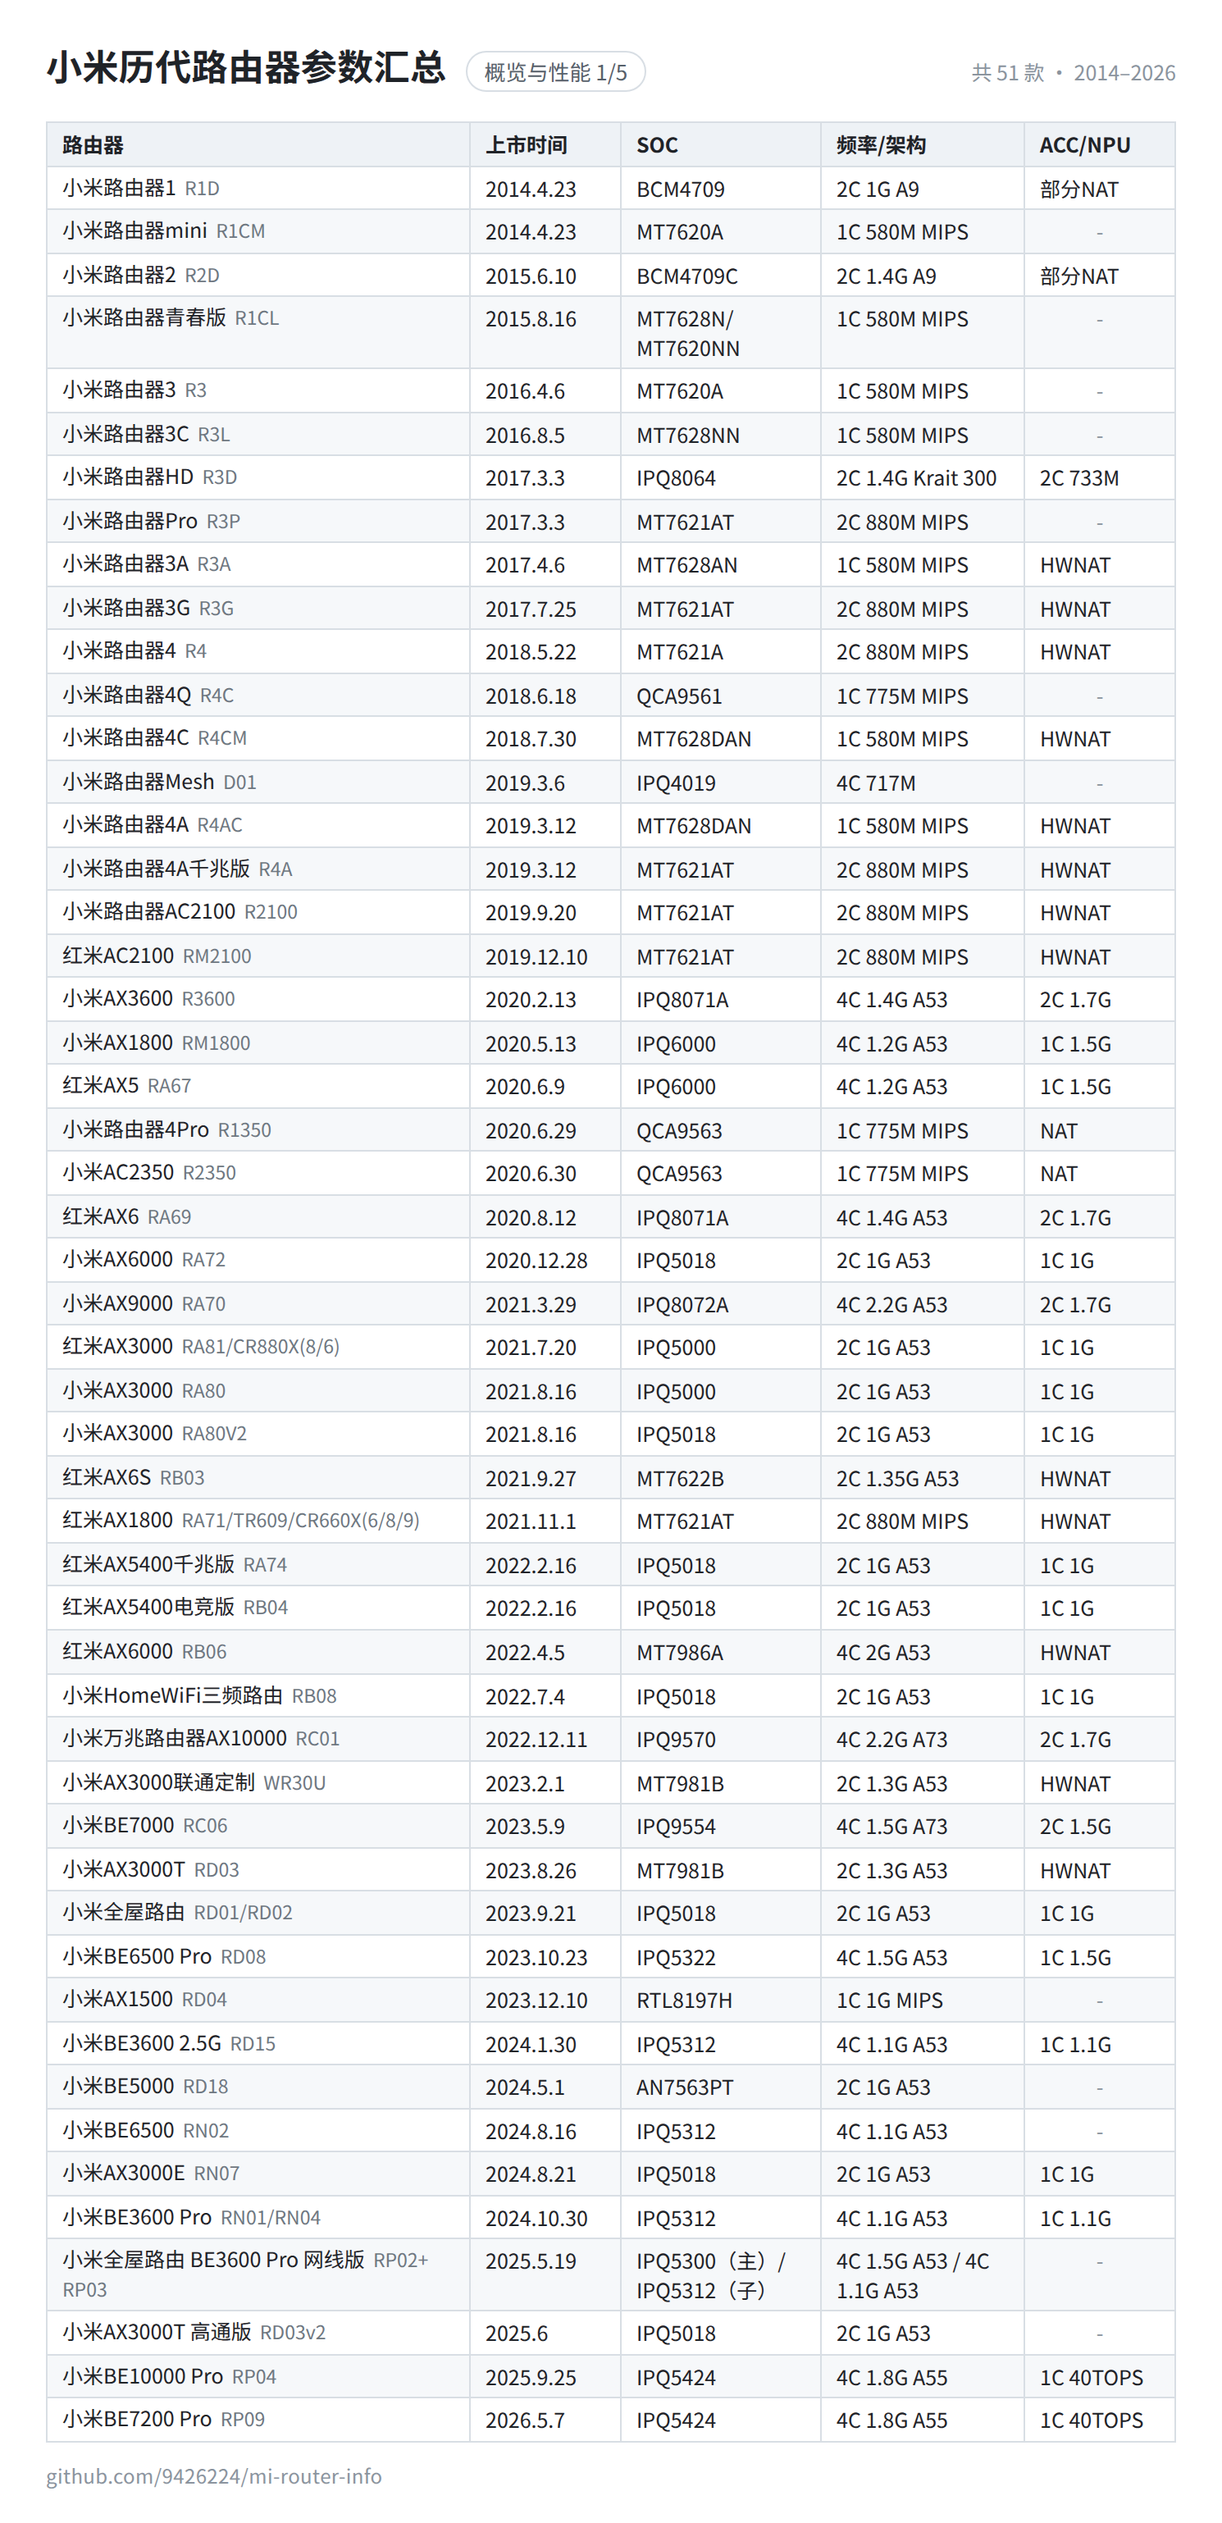
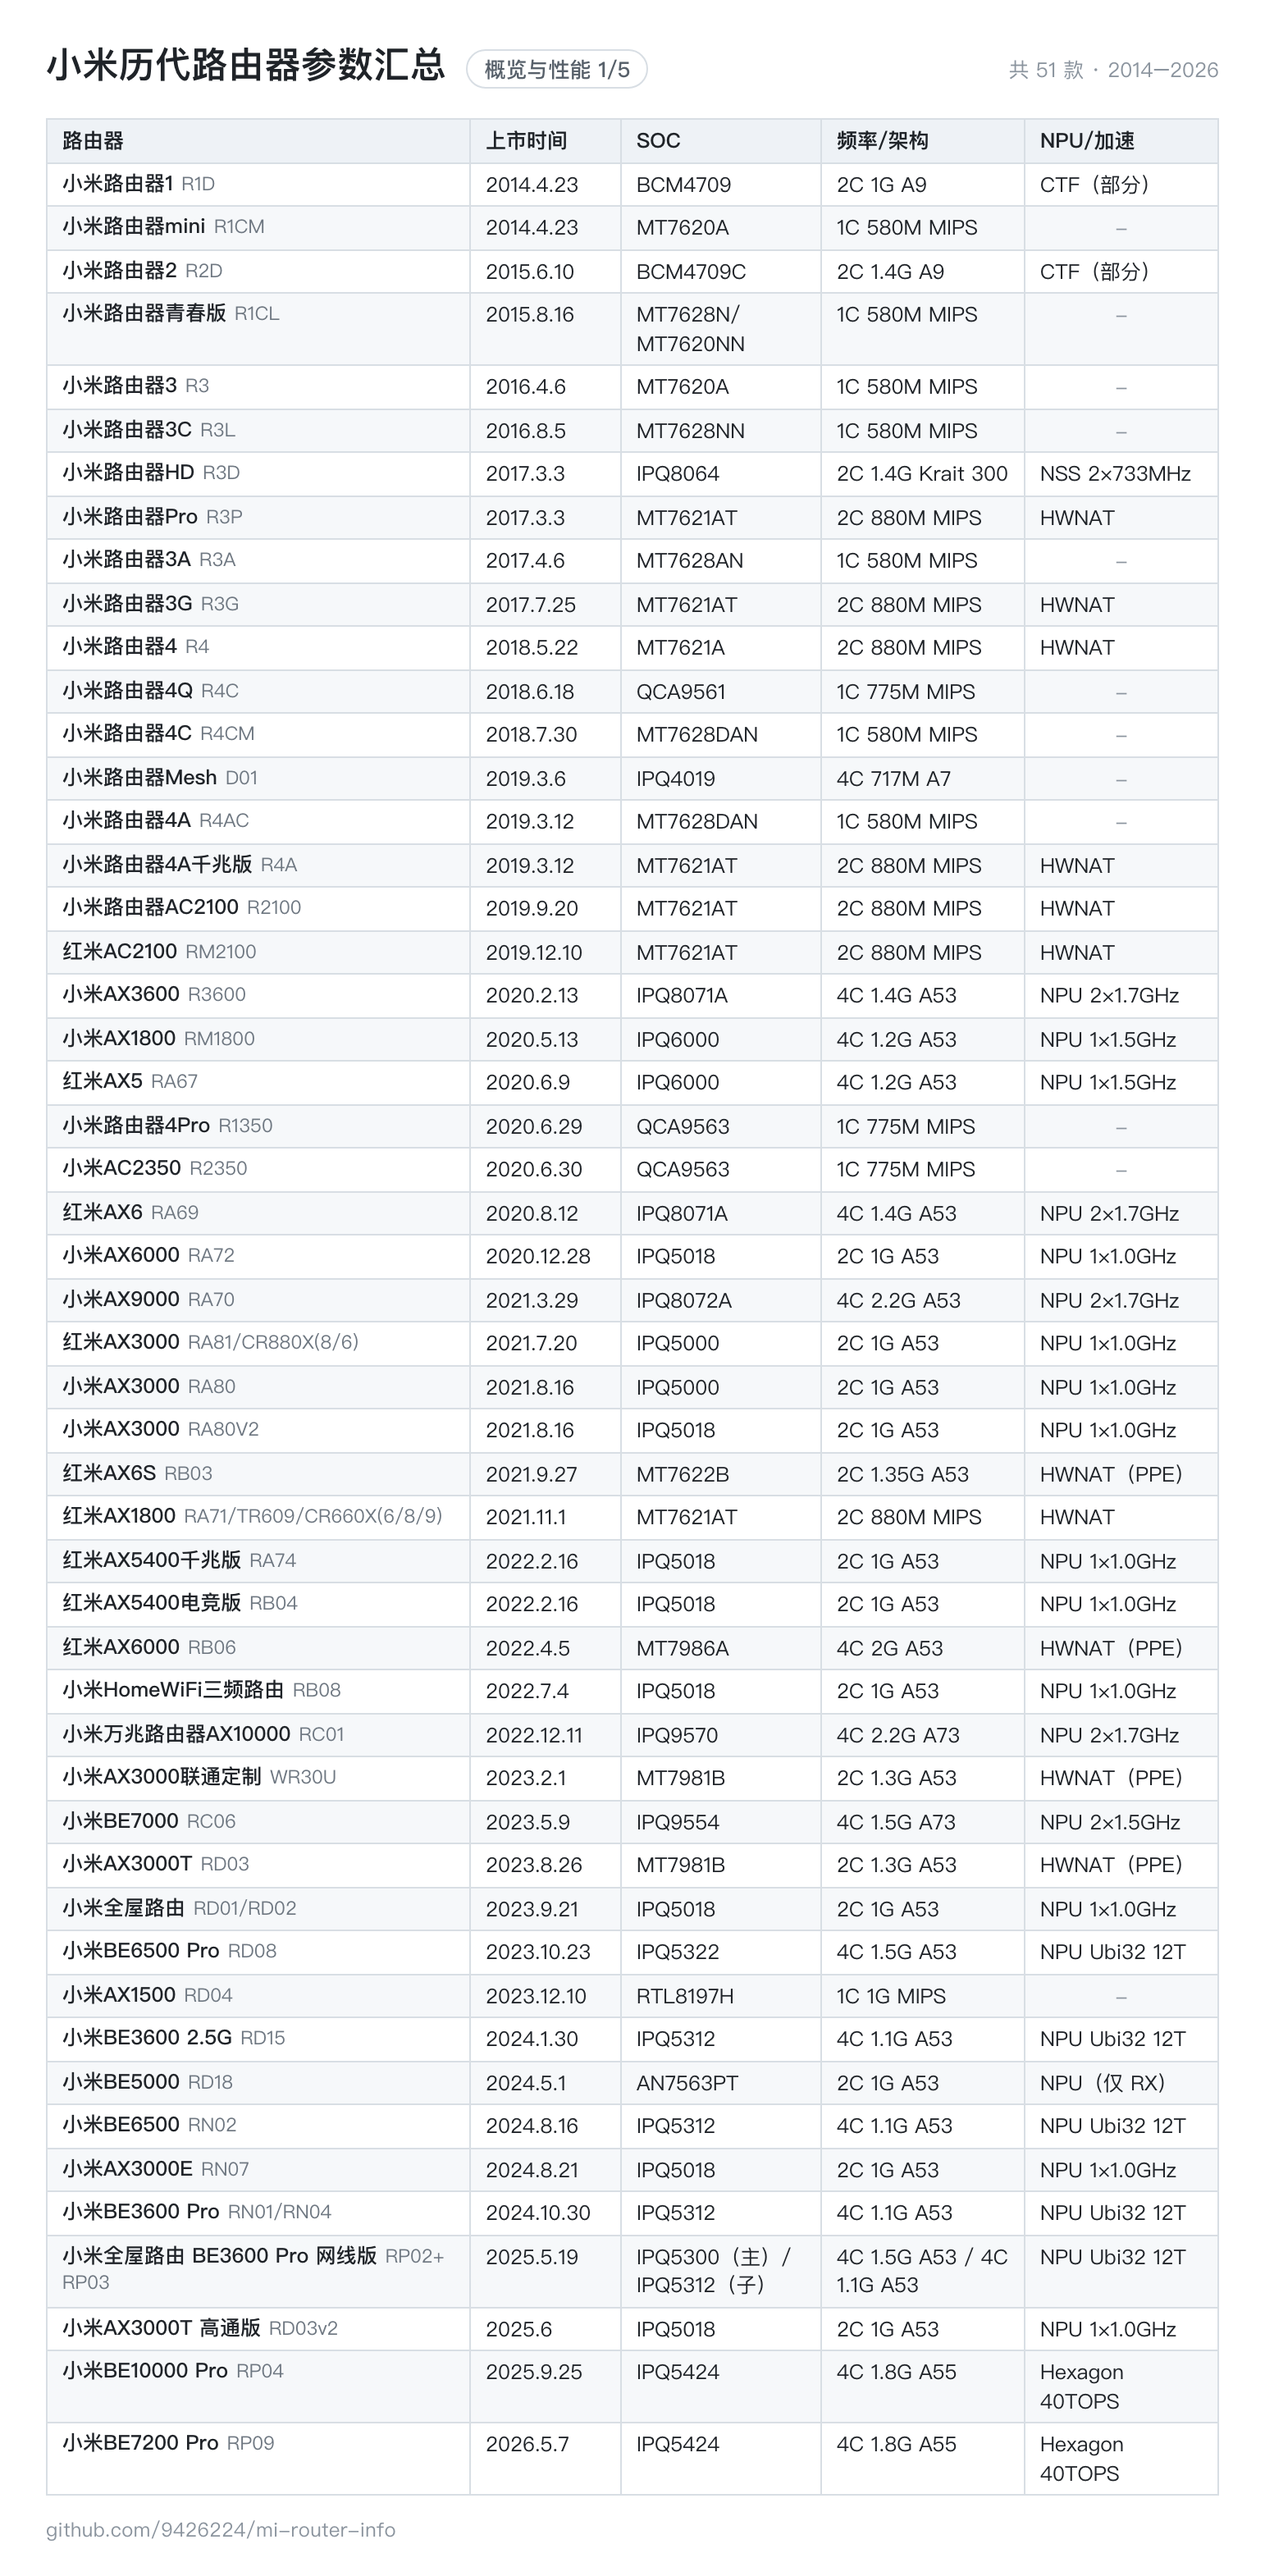
feat: 全表复核并新增一图流 (v0.4.0)
- NPU/加速列按 SoC 重写：IPQ807x/AX 系列 NPU 核心与频率、IPQ8064 的 NSS 2×733MHz、IPQ5312/5322 的 Ubi32 12T、IPQ5424 的 Hexagon 40TOPS；MT798x 标 PPE，博通标 CTF
- 修正误标：MT7628 全系无硬件 NAT、QCA9563 无 HWNAT、MT7621 补 HWNAT、BE5000 的 AN7563 为 RX offload
- 修正 AX9000 的 5G FEM 数量（8× QPF4588）、小米万兆网口（2.5G×4 + 10G×1 + SFP+）、R3D 的 5G FEM 型号（SKY2185712）、IPQ4019 架构（A7）
- 列名更新为「NPU/加速」「交换/PHY」，并允许内存列换行
- 新增一图流 assets/specs-all.png（全部 20 列，1.5× 渲染），README 置顶；拆分图保留
- 对照 acwifi 配置表复核 26 个型号的 CPU/内存/闪存/FEM，补充 SOC 与加速器来源

diff --git a/README.md b/README.md
@@ -15,9 +15,13 @@
 
 ## 图片版
 
-按用途分成五张，每张以「名称 + 型号」作为索引列，方便对照；点击图片查看原图。
+一图流是包含全部 20 列的单张总表，适合下载后放大查看；其余五张按用途拆分，每张以「名称 + 型号」作为索引列。点击图片可查看原图。
 
 <!-- IMAGES:START -->
+
+### 全部参数（一图流）
+
+![小米历代路由器全部参数（一图流）](assets/specs-all.png)
 
 ### 概览与性能
 
@@ -42,23 +46,24 @@
 
 ## 字段说明
 
-| 字段                             | 说明                                        |
-| -------------------------------- | ------------------------------------------- |
-| 路由器名称 / 型号                | 商品名 / 背板或认证型号，多型号用 `/` 分隔  |
-| 上市时间                         | 开售或众筹日期；只查到月份时写作 `YYYY.M`   |
-| SOC / 频率/架构                  | 主控芯片与核心数、主频、架构                |
-| ACC/NPU                          | 硬件加速或 NPU 规格，`-` 表示没有或未确认   |
-| 内存 / 内存型号                  | 容量、代际与颗粒型号                        |
-| 存储 / 存储型号                  | 闪存容量与颗粒型号                          |
-| 2.4G / 5G 芯片、FEM、无线        | 无线芯片、外置功放与 MIMO·频宽·速率·调制    |
-| 天线 / 其他功能芯片              | 天线数量与内外置、频段分配，蓝牙/NFC/PoE 等 |
-| 背板网口 / USB/SATA / 交换机芯片 | 有线接口、存储接口与交换芯片                |
+| 字段                           | 说明                                            |
+| ------------------------------ | ----------------------------------------------- |
+| 路由器名称 / 型号              | 商品名 / 背板或认证型号，多型号用 `/` 分隔      |
+| 上市时间                       | 开售或众筹日期；只查到月份时写作 `YYYY.M`       |
+| SOC / 频率/架构                | 主控芯片与核心数、主频、架构                    |
+| NPU/加速                       | NPU、NSS、HWNAT/PPE、CTF 等硬件加速，`-` 表示无 |
+| 内存 / 内存型号                | 容量、代际与颗粒型号                            |
+| 存储 / 存储型号                | 闪存容量与颗粒型号                              |
+| 2.4G / 5G 芯片、FEM、无线      | 无线芯片、外置功放与 MIMO·频宽·速率·调制        |
+| 天线 / 其他功能芯片            | 天线数量与内外置、频段分配，蓝牙/NFC/PoE 等     |
+| 背板网口 / USB/SATA / 交换/PHY | 有线接口、存储接口与交换芯片/PHY                |
 
 几条口径：
 
 - `-` 表示该项未确认或不适用，不当成 0。
 - 无线列统一写作 `4×4 · 160MHz · 5765Mbps · 4096-QAM`（MIMO · 频宽 · 理论速率 · 调制）；多频段或多模式用换行分隔。
 - 天线列写作 `6 根外置`，括号内补充频段分配或特殊天线（AIoT、蓝牙、NFC）。
+- NPU/加速列区分 NPU（高通 Ubi32/Hexagon、双核 NPU 等）、网络协处理器（NSS）、硬件 NAT（HWNAT/PPE）与博通 CTF，不再把 CPU 频率当作 NPU 频率。
 - 速率是厂商理论最大值，Wi-Fi 7 按 4096-QAM、Wi-Fi 6 按 1024-QAM 计，实际速率取决于终端、频宽和环境影响。
 - 同一型号可能有多个硬件批次（例如 BE3600 的 RD15/RD16、AX3000T 的联发科/高通版、BE6500 Pro 的内存缩水版），表中记录主批次，差异单独整理在 [docs/variants.md](docs/variants.md)。
 

diff --git a/docs/contributing.md b/docs/contributing.md
@@ -29,7 +29,7 @@
 | 上市时间               | `YYYY.M.D`；只查到月份写 `YYYY.M` | 2020.12.28                                                |
 | SOC                    | 主控芯片                          | IPQ5018                                                   |
 | 频率/架构              | 核心数、主频、架构                | 2C 1G A53                                                 |
-| ACC/NPU                | 硬件加速 / NPU 规格               | 1C 1G                                                     |
+| NPU/加速               | NPU / NSS / HWNAT 等硬件加速      | NPU 2×1.7GHz / HWNAT / CTF（部分）                        |
 | 内存 / 内存型号        | 容量与颗粒型号                    | 512M DDR3L / 钰创EM6HE16EWAKG-10H                         |
 | 存储 / 存储型号        | 容量与颗粒型号                    | 128M / 兆易创新GD5F1GQ4REYIG                              |
 | 2.4G 芯片 / FEM / 无线 | 2.4G 无线方案                     | 集成 / 2× QPF4288 / 2×2 · 40MHz · 574Mbps · 1024-QAM      |
@@ -38,7 +38,7 @@
 | 其他功能芯片           | 蓝牙、独立 FEM 等                 | QCA9889                                                   |
 | 背板网口               | 网口组合                          | 2.5G×1 + 1G×3                                             |
 | USB/SATA               | 接口                              | USB3.0                                                    |
-| 交换机芯片             | 交换芯片                          | QCA8337-AL3C+QCA8081                                      |
+| 交换/PHY               | 交换芯片或 PHY                    | QCA8337-AL3C + QCA8081                                    |
 
 约定：
 
@@ -70,11 +70,11 @@ open output/index.html
 
 21 列放在一张图里在 README 中会被整体缩小到不可读，因此按用途拆成五张，每张把「路由器名称 + 型号」合成一列作索引：
 
-1. 概览与性能：上市时间、SOC、频率/架构、ACC/NPU
+1. 概览与性能：上市时间、SOC、频率/架构、NPU/加速
 2. 内存与存储：内存、内存型号、存储、存储型号
 3. 2.4G 无线：2.4G 芯片、2.4G FEM、2.4G 无线
 4. 5G 无线：5G 芯片、5G FEM、5G 无线
-5. 接口与其他：天线、其他功能芯片、背板网口、USB/SATA、交换机芯片
+5. 接口与其他：天线、其他功能芯片、背板网口、USB/SATA、交换/PHY
 
 分组与列宽定义在 `scripts/build.mjs` 的 `GROUPS`、`COLUMN_WIDTH`。
 

diff --git a/docs/sources.md b/docs/sources.md
@@ -26,6 +26,15 @@
 | 小米万兆 AX10000               | [acwifi 拆机](https://www.acwifi.net/23365.html)                                                                                                                                                                                               |
 | 小米路由器Mesh                 | [小米官方规格](https://www.mi.com/mesh/specs)、[wikidevi](<https://wikidevi.wi-cat.com/index.php?title=Xiaomi_Mesh_Router_AC1300_(D01)>)                                                                                                       |
 
+## SOC 与加速器
+
+- AX 系列的 NPU 核心与频率：[acwifi 芯片汇总](https://damodev.csdn.net/67fcc9a1a5baf817cf48ddbc.html)（AX1800 单核 1.5GHz、AX3600 双核 1.7GHz、AX6000 单核 1.0GHz、AX9000 双核 1.7GHz）。
+- IPQ8064 的双核 NSS @730MHz：[PCMag 报道](https://uk.pcmag.com/components/8311/qualcomm-intros-new-line-of-processors-for-the-connected-home)、[OpenWrt 讨论](https://forum.openwrt.org/t/ipq806x-nss-drivers/12613/449)。
+- IPQ5312/5322 的 Ubi32 NPU：[BitsWRT NHX53X2 模块规格](https://bitswrt.com/zh-cn/product/wifi7-som/nhx53x2/nhx53x2_v02_220/)、[ipTIME BE3600QCA 资料](https://namu.wiki/w/ipTIME%20BE3600QCA)。
+- AN7563 的 NPU 仅做 RX offload：[OpenWrt 论坛](https://forum.openwrt.org/t/official-support-for-tp-link-xx530v/255062/18)。
+- MT7628 没有硬件 NAT：[恩山讨论](https://www.right.com.cn/forum/thread-259276-3-1.html)。
+- R3D 的 FEM 与 NSS 规格：[什么值得买配置帖](https://post.smzdm.com/p/a25gkmzd/)。
+
 ## 说明
 
 - 老型号（2014–2022）主要沿用 acwifi 配置表与对应拆机文，个别颗粒型号以丝印为准；表里保留 `-` 而不是猜测。

diff --git a/CHANGELOG.md b/CHANGELOG.md
@@ -1,5 +1,16 @@
 # 更新记录
 
+## 0.4.0 - 2026-11-23
+
+全表复核（SOC、加速器、网口、无线）并新增一图流。
+
+- NPU/加速列按 SoC 重写：IPQ807x/6000/5000/5018 的 NPU 核心与频率、IPQ8064 的 NSS 2×733MHz、IPQ5312/5322 的 Ubi32 12T、IPQ5424 的 Hexagon 40TOPS；MT798x 标 PPE，博通标 CTF
+- 修正误标：MT7628 全系没有硬件 NAT、QCA9563 没有 HWNAT、MT7621 漏标的 HWNAT、BE5000 的 AN7563 有 RX offload
+- 修正 AX9000 的 5G FEM 数量（8× QPF4588）、小米万兆网口（2.5G×4 + 10G×1 + SFP+）、R3D 的 5G FEM 型号（SKY2185712）、IPQ4019 架构（A7）
+- 列名更新为「NPU/加速」「交换/PHY」，说明 NPU/NSS/HWNAT/CTF 的口径
+- 新增一图流 `assets/specs-all.png`（全部 20 列，1.5× 渲染），README 置顶展示
+- 对照 acwifi 配置表复核了 26 个型号的 CPU、内存、闪存与 FEM，未发现其他差异
+
 ## 0.3.1 - 2026-11-23
 
 射频与天线字段改写为统一、可核对的写法。

diff --git a/docs/design.md b/docs/design.md
@@ -13,9 +13,9 @@
 `data/routers.csv`，UTF-8、逗号分隔、首行为中文表头，目前 21 列：
 
 ```
-路由器名称, 型号, 上市时间, SOC, 频率/架构, ACC/NPU, 内存, 内存型号, 存储, 存储型号,
+路由器名称, 型号, 上市时间, SOC, 频率/架构, NPU/加速, 内存, 内存型号, 存储, 存储型号,
 2.4G 芯片, 2.4G FEM, 2.4G 无线, 5G 芯片, 5G FEM, 5G 无线, 天线, 其他功能芯片,
-背板网口, USB/SATA, 交换机芯片
+背板网口, USB/SATA, 交换/PHY
 ```
 
 选择 CSV 的原因：Excel / WPS / Numbers 可直接编辑，git diff 逐行可读，脚本解析成本低；表头即字段名，不需要额外 schema 文件。
